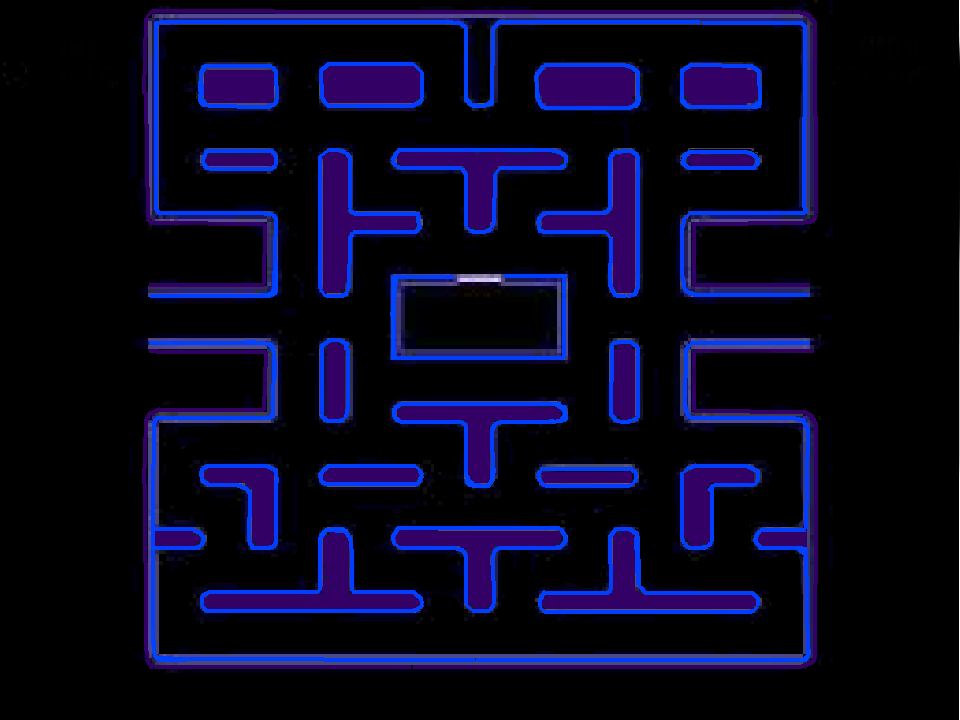
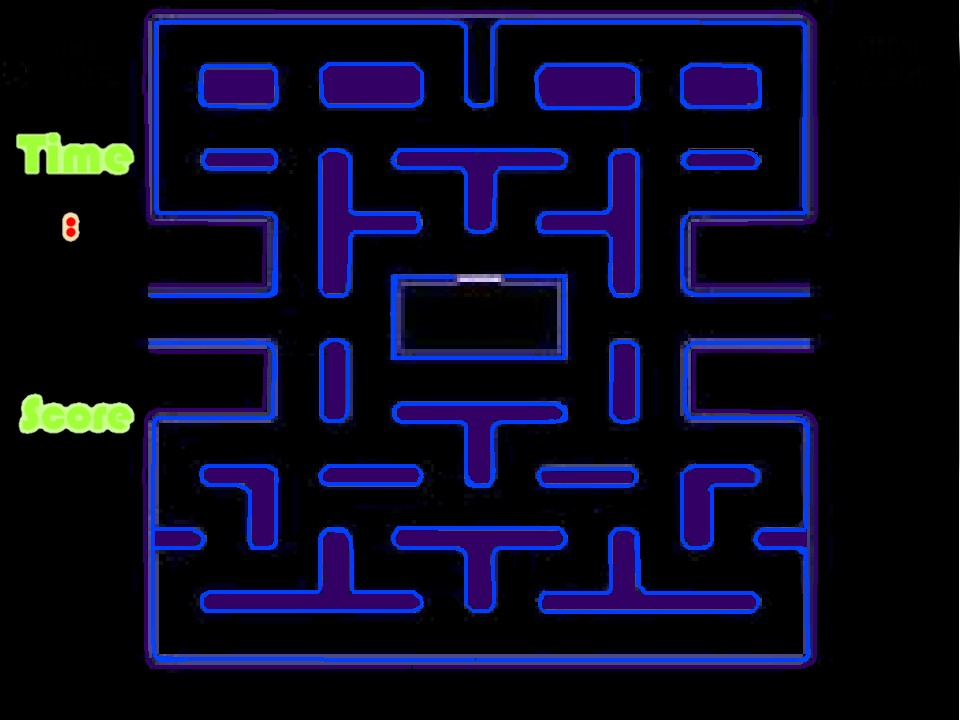
Avance en la clase Clock

diff --git a/Clock.java b/Clock.java
@@ -6,14 +6,27 @@ import greenfoot.*;  // (World, Actor, GreenfootImage, Greenfoot and MouseInfo)
  * @author (your name) 
  * @version (a version number or a date)
  */
-public class Clock
+public class Clock extends Actor
 {
     private long start;
-    float totalSeconds;
+    int totalSeconds;
+    Character minutes1; 
+    Character minutes2; 
+    Character seconds1;
+    Character seconds2;
 
-    public Clock(){
+    public Clock(escenario scenario){
         start = System.currentTimeMillis();
         totalSeconds = 0;
+        
+        minutes1  = new Character(); 
+        scenario.addObject(minutes1, 21, 225);
+        minutes2  = new Character(); 
+        scenario.addObject(minutes2, 48, 225);
+        seconds1  = new Character(); 
+        scenario.addObject(seconds1, 95, 225);
+        seconds2  = new Character(); 
+        scenario.addObject(seconds2, 122, 225);
     }
     
     /**
@@ -23,14 +36,24 @@ public class Clock
     public void act() 
     {
         long end = System.currentTimeMillis();
-        
-        totalSeconds = (end - start) / 1000F;
-        float seconds = totalSeconds;
+        totalSeconds = (int)((end - start) / 1000F);
+
+        System.out.println(totalSeconds);
+
+        int seconds = totalSeconds;
         int minutes = (int)seconds / 60;
         seconds -= minutes * 60;
+        
+        minutes2.changeImage(String.valueOf(minutes % 10));
+        minutes /= 10;
+        minutes1.changeImage(String.valueOf(minutes));
+        
+        seconds2.changeImage(String.valueOf(seconds % 10));
+        seconds /= 10;
+        seconds1.changeImage(String.valueOf(seconds));
     }    
 
-    public float getTotalSeconds(){
+    public int getTotalSeconds(){
         return totalSeconds;
     }
 }

diff --git a/escenario.java b/escenario.java
@@ -50,16 +50,27 @@ public class escenario extends World
         addObject(player,180,48);
         
         fantasma = new fantasma(player,"Pink.png");
-        addObject(fantasma, 444, 215);
+        addObject(fantasma, 420, 320);
         
         fantasma1 = new fantasma(player,"Blue.png");
-        addObject(fantasma, 200, 215);
+        addObject(fantasma1, 460, 320);
         
         fantasma2 = new fantasma(player,"Red.png");
-        addObject(fantasma, 401, 215);
+        addObject(fantasma2, 500, 320);
         
         fantasma3 = new fantasma(player,"Yellow.png");
-        addObject(fantasma, 100, 215);
+        addObject(fantasma3, 540, 320);
+        
+        Clock clock = new Clock(this);
+
+        Cherry cherry = new Cherry(player, this, clock);
+        addObject(cherry, 780, 48);
+
+        Snail snail = new Snail(player);
+        addObject(snail, 780, 625);
+
+        Chilli chilli = new Chilli(player);
+        addObject(chilli, 185, 625);
         
         ReturnButton returnButton = new ReturnButton(mainScreen);
         addObject(returnButton, 70, 600);
@@ -75,12 +86,12 @@ public class escenario extends World
     }
 
     public void act(){
-        /*MouseInfo mouse = Greenfoot.getMouseInfo();
+        MouseInfo mouse = Greenfoot.getMouseInfo();
             if (Greenfoot.mouseClicked(null)) {
              int x = mouse.getX();
             int y = mouse.getY();
             System.out.println(x + "," + y);
-        }*/
+        }
 
         
     }

diff --git a/Cherry.java b/Cherry.java
@@ -28,13 +28,13 @@ public class Cherry extends Actor
      */
     public void act() 
     {
-        if(intersects(player)){
+        if(intersects(player) && scare == 0){
             scenario.eatGhost(1);
-            scaredStart = (int)clock.getTotalSeconds();
+            scaredStart = clock.getTotalSeconds();
             scare = 1;
         }
         
-        if(scare == 1 && (int)clock.getTotalSeconds() - scaredStart == 5){
+        if(scare == 1 && clock.getTotalSeconds() - scaredStart == 5){
             scenario.eatGhost(0);
             scenario.removeObject(this);
         }

diff --git a/fantasma.java b/fantasma.java
@@ -33,8 +33,8 @@ public class fantasma extends Actor
     
     public void eatPacman(){
         if(intersects(player)){
-            getWorld().showText("You lose!",300,200);
-            Greenfoot.stop();
+            /*getWorld().showText("You lose!",300,200);
+            Greenfoot.stop();*/
         }
     }
 
